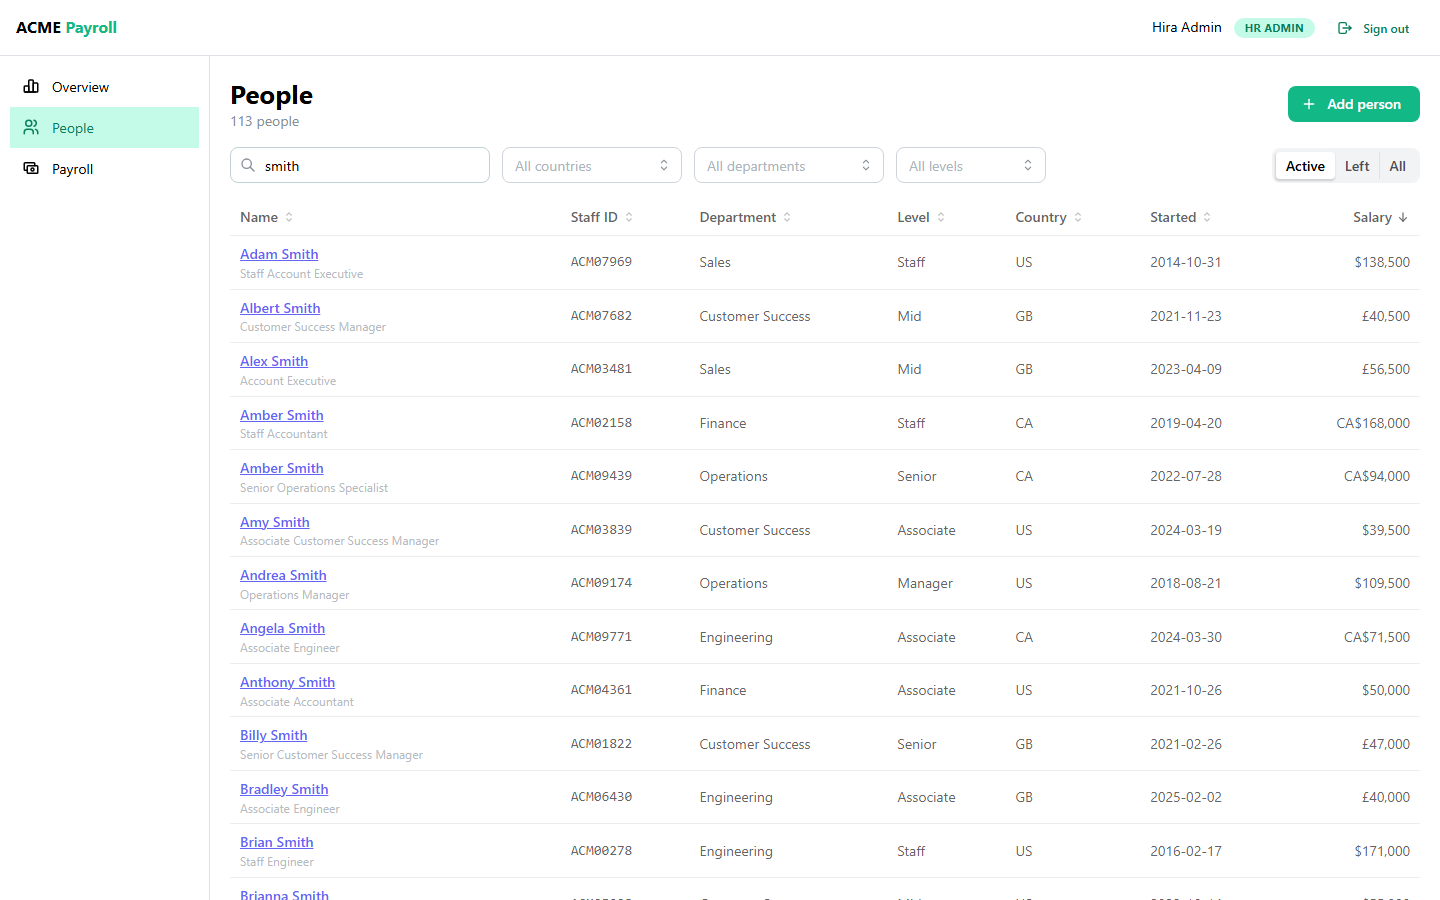
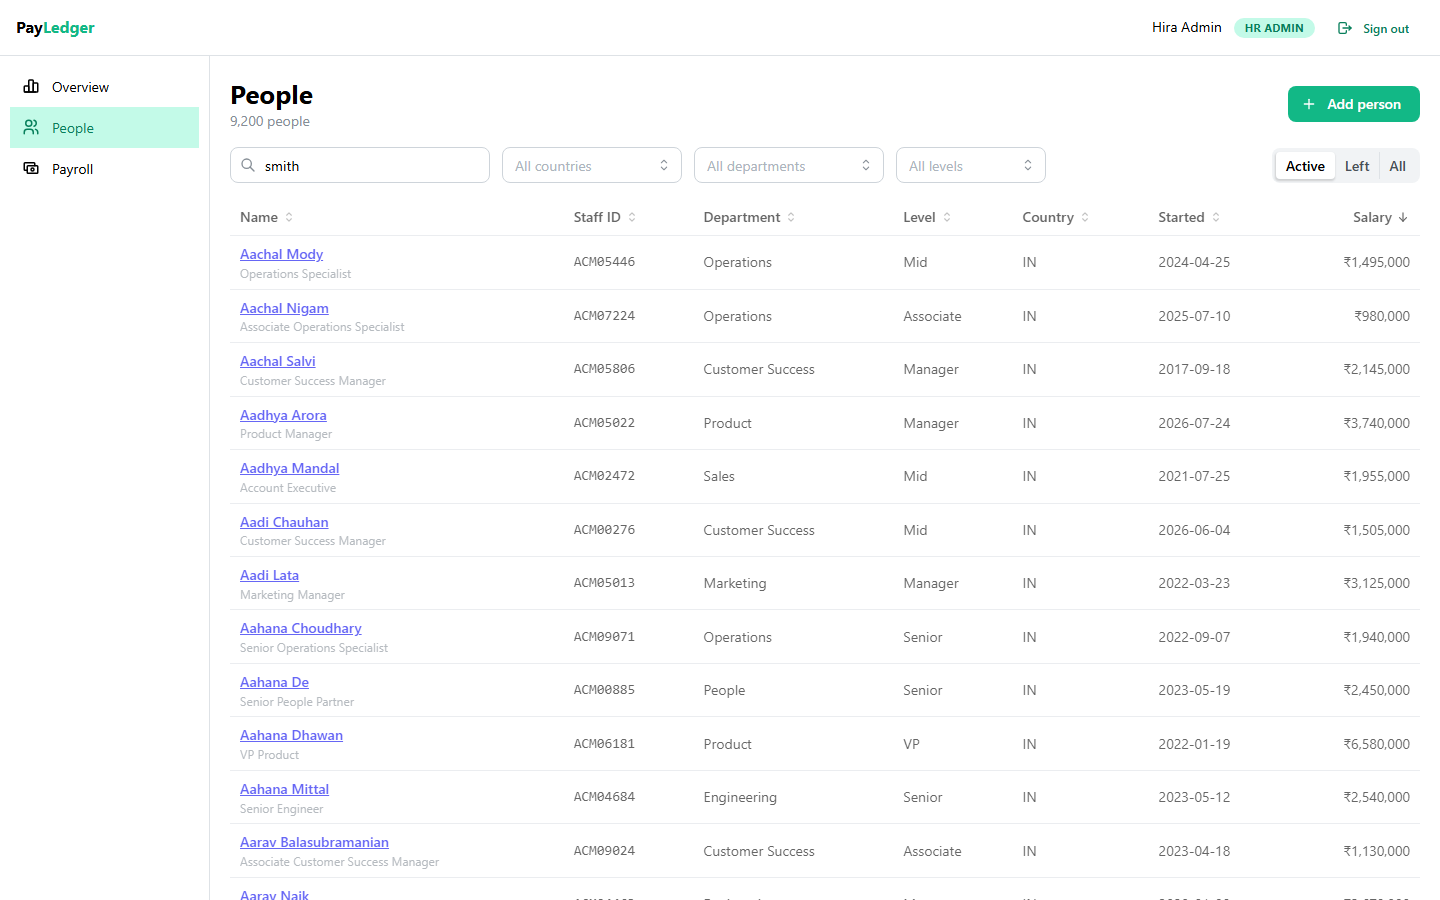
rename the app to PayLedger
Header, sign-in page, browser title, API title, backend package name
and README. ACME stays as the company the app is built for.
Screenshots retaken.

diff --git a/frontend/src/components/login-form.tsx b/frontend/src/components/login-form.tsx
@@ -35,8 +35,8 @@ export function LoginForm() {
       <Paper withBorder shadow="sm" p="xl" w={380} component="form" onSubmit={submit}>
         <Stack>
           <div>
-            <Title order={2}>ACME Payroll</Title>
-            <Text c="dimmed" size="sm">Sign in to manage pay across ACME.</Text>
+            <Title order={2}>PayLedger</Title>
+            <Text c="dimmed" size="sm">Salary records and pay insight for ACME HR.</Text>
           </div>
           {error && <Alert color="red" role="alert">{error}</Alert>}
           <TextInput label="Email" type="email" autoComplete="username" required

diff --git a/frontend/src/components/shell.tsx b/frontend/src/components/shell.tsx
@@ -44,7 +44,7 @@ export function Shell({ children }: { children: React.ReactNode }) {
       <AppShell.Header px="md">
         <Group h="100%" justify="space-between">
           <Text fw={700}>
-            ACME <Text span c="teal" inherit>Payroll</Text>
+            Pay<Text span c="teal" inherit>Ledger</Text>
           </Text>
           <Group gap="sm">
             <Text size="sm" visibleFrom="sm">{me.data.full_name}</Text>

diff --git a/frontend/src/app/layout.tsx b/frontend/src/app/layout.tsx
@@ -9,7 +9,7 @@ import type { Metadata } from "next";
 import { Providers } from "@/app/providers";
 
 export const metadata: Metadata = {
-  title: { default: "ACME Payroll", template: "%s | ACME Payroll" },
+  title: { default: "PayLedger", template: "%s | PayLedger" },
   description: "Salary records and pay insight for ACME HR",
 };
 

diff --git a/backend/app/main.py b/backend/app/main.py
@@ -22,7 +22,7 @@ def create_app(
     settings = settings or get_settings()
     engine = engine or make_engine(settings.database_url)
 
-    app = FastAPI(title="ACME Payroll API", version="0.1.0", docs_url="/api/docs",
+    app = FastAPI(title="PayLedger API", version="0.1.0", docs_url="/api/docs",
                   openapi_url="/api/openapi.json")  # fmt: skip
     app.state.settings = settings
     app.state.session_factory = session_factory(engine)

diff --git a/README.md b/README.md
@@ -1,6 +1,6 @@
-# ACME Payroll
+# PayLedger
 
-Salary management for the HR Manager of ACME: 10,000 employees in nine countries, until now
+PayLedger is salary management for the HR Manager of ACME: 10,000 employees in nine countries, until now
 managed in spreadsheets. The app keeps every employee's pay with a full history of changes,
 shows how the company pays people in one currency, runs a monthly payroll record, and
 separates HR admins (who change things) from viewers (who only look).
